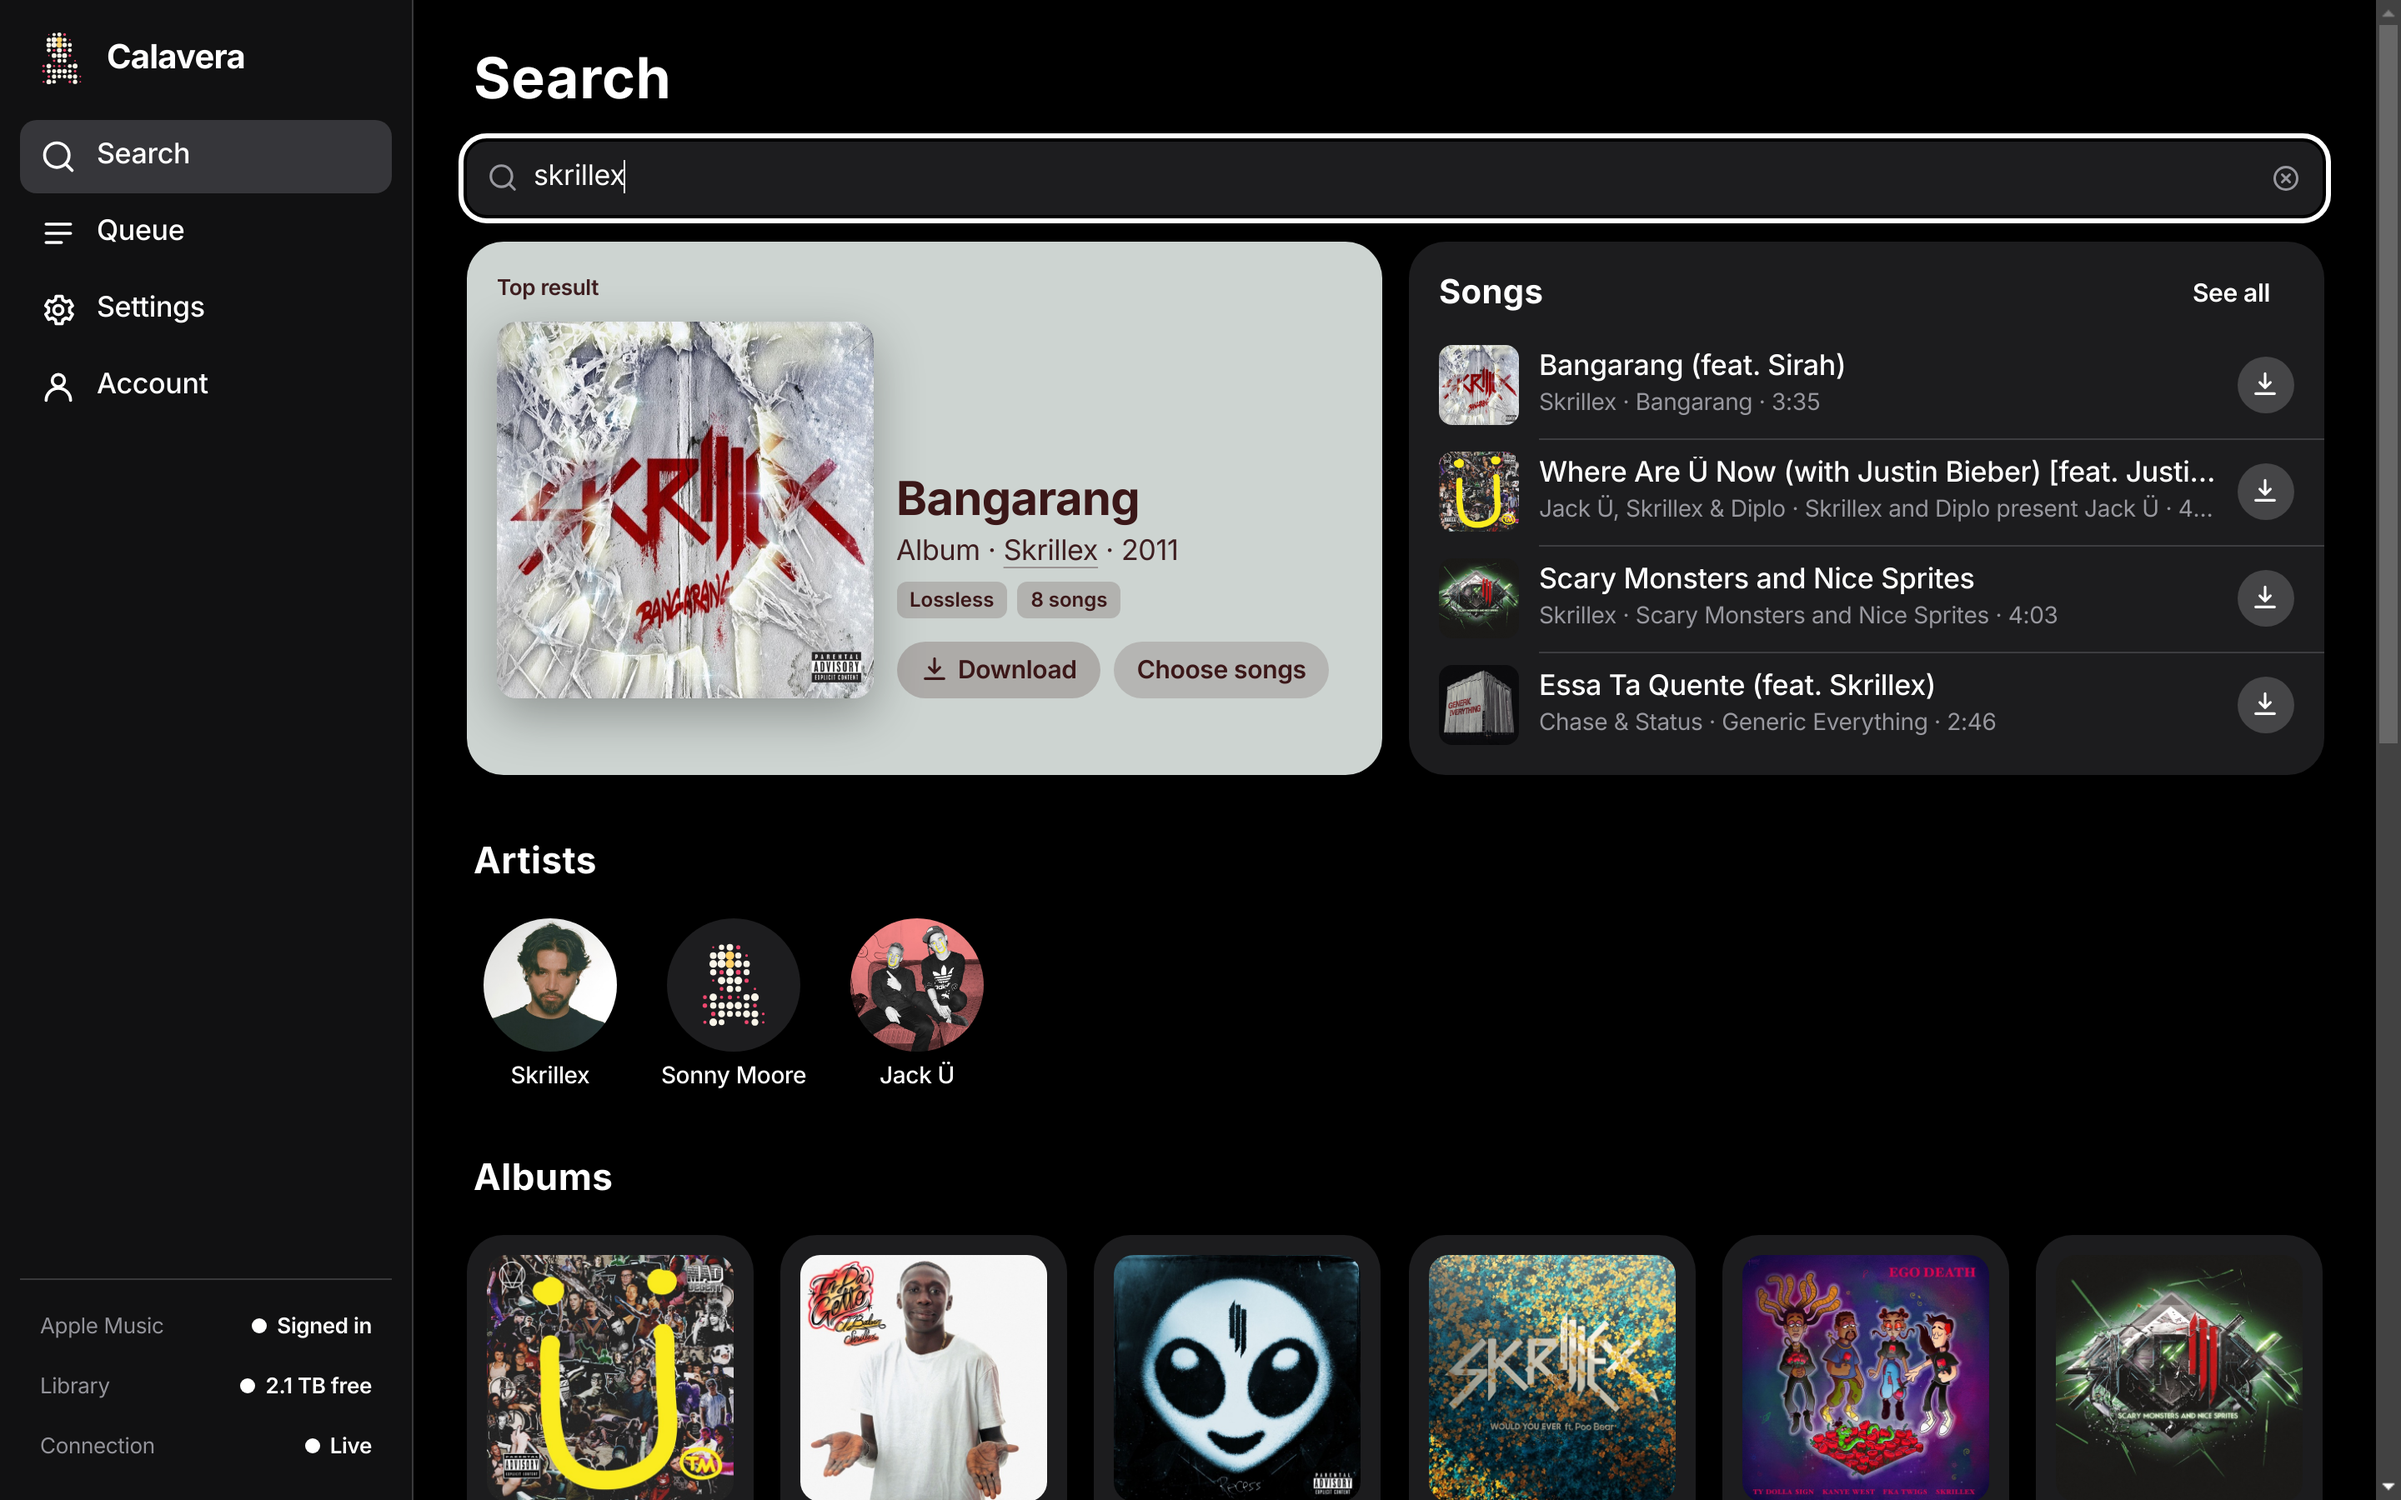
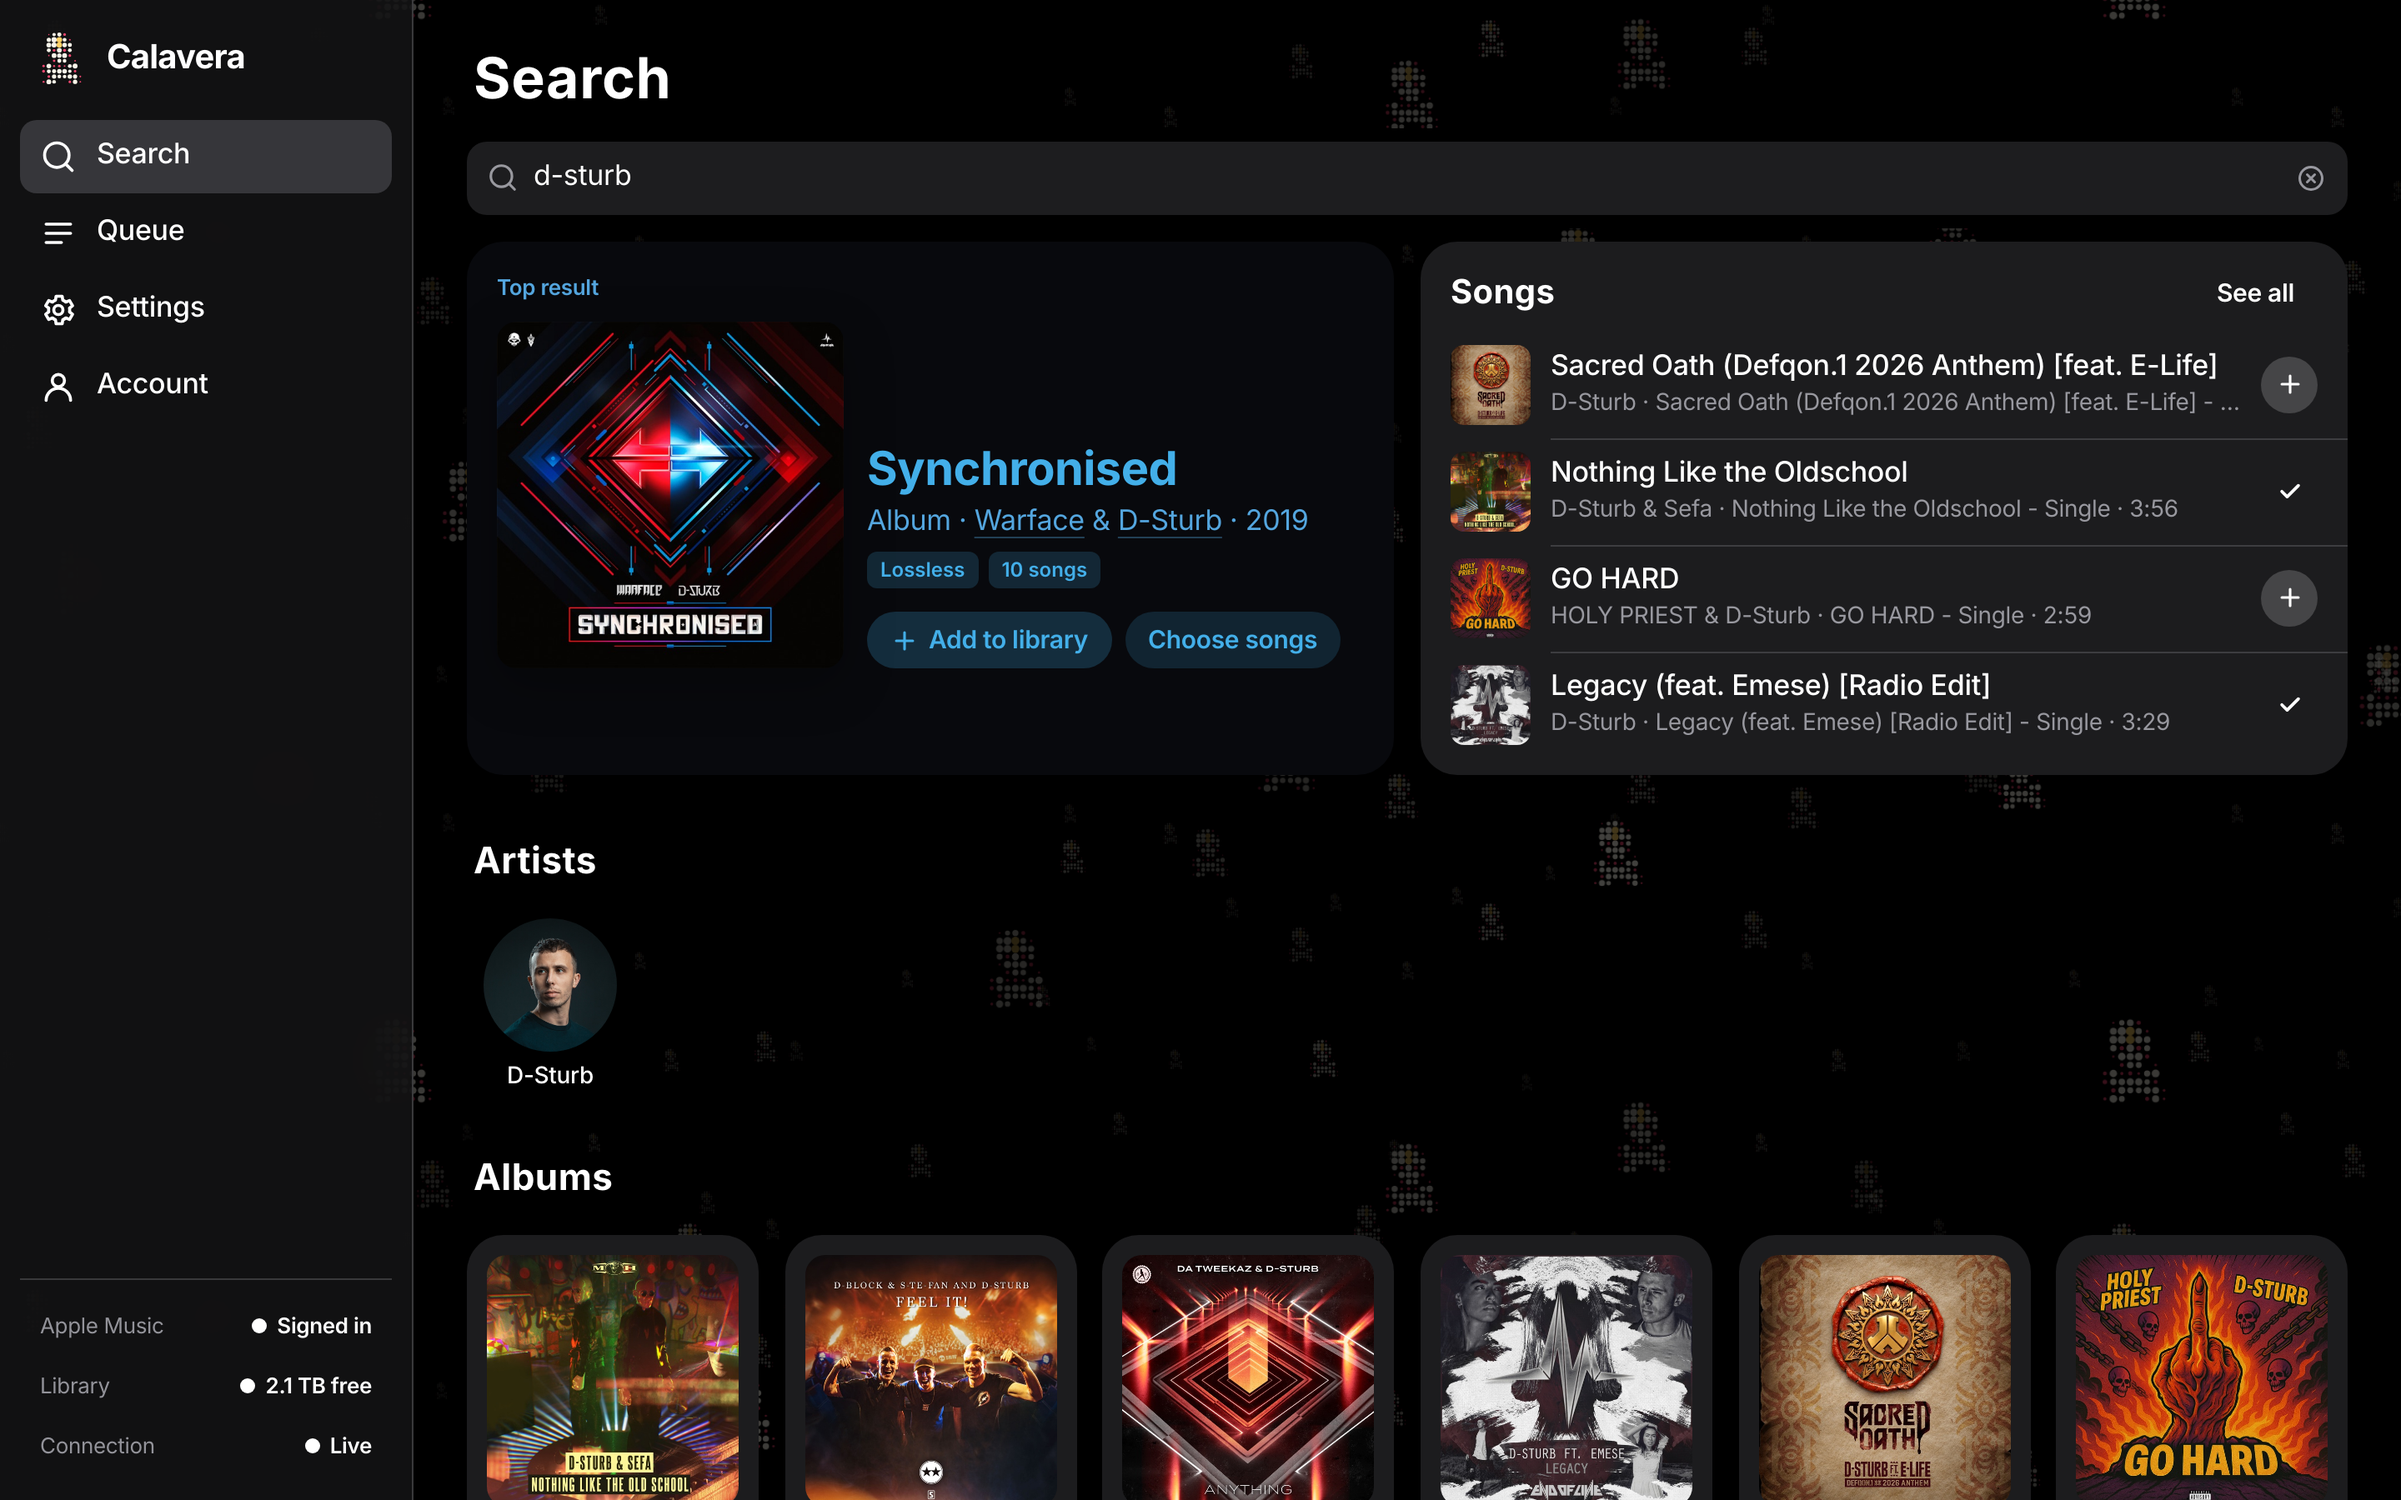
README screenshots: D-Sturb on Search in dark, Through My Veins on a phone in light

diff --git a/README.md b/README.md
@@ -13,8 +13,8 @@ original, and files it under `Artist/Album/` in your library without ever
 overwriting what is already there.
 
 <p>
-  <img src="docs/screenshots/search-dark.png" alt="Calavera's search page in the dark appearance, searching for Skrillex: the top result in its cover's colours beside a list of songs, a row of artists, and album tiles" width="560">
-  <img src="docs/screenshots/album-light.png" alt="Calavera's album page on a phone in the light appearance: the single Mirage by MPH and Skrillex in its cover's colours, with its quality in numbers, its song with a checkmark, and a download button" width="200">
+  <img src="docs/screenshots/search-dark.png" alt="Calavera's search page in the dark appearance, searching for D-Sturb: the top result Synchronised in its cover's colours with Add to library, beside a list of songs, each with an add button or a checkmark, an artist, and album tiles" width="560">
+  <img src="docs/screenshots/album-light.png" alt="Calavera's album page on a phone in the light appearance: Through My Veins by D-Sturb, 9 of 12 songs in the library, with a download button and Add 3 songs to library" width="200">
 </p>
 
 ## Before you use it
